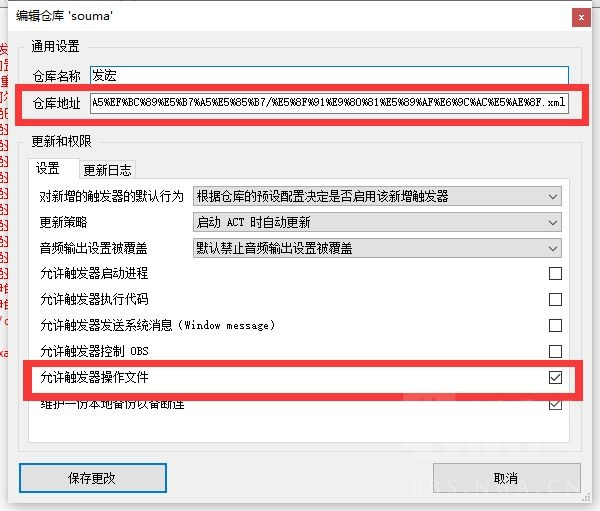
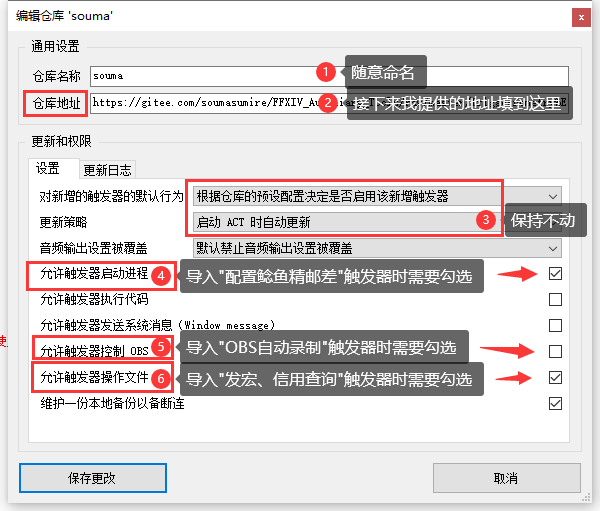
Update

diff --git a/README.md b/README.md
@@ -16,12 +16,6 @@
   1. 安装 [ACT呆萌整合](https://nga.178.com/read.php?tid=19019884) / [Triggernometry](https://github.com/paissaheavyindustries/Triggernometry)
   1. **聊天框消息没有被过滤** [视频演示](https://www.bilibili.com/video/av83704576/)
 
-## 统一为所有触发器设置鲶鱼精邮差端口
-
-1. 运行 `配置环境变量.bat`
-
-1. **重新启动ACT**
-
 ## 导入触发器
 
 ![远程触发器](screenshots/远程触发器.png)
@@ -30,9 +24,13 @@
 远程仓库地址：
 
 ```仓库地址:
-
-副本触发器
+5.0副本触发器
 https://gitee.com/soumasumire/FFXIV_Auxiliary_Tools/raw/master/Triggernometry%E8%A7%A6%E5%8F%91%E5%99%A8/%E5%89%AF%E6%9C%AC%E8%A7%A6%E5%8F%91%E5%99%A8/5.0%E8%A7%A6%E5%8F%91%E5%99%A8.xml
+
+配置【鲶鱼精邮差】监听端口（导入时需勾选“允许触发器启动进程”）
+//复制到本地以修改端口
+//已经下载到本地的可以也选择运行'设置鲶鱼精邮差端口.bat'进行设置
+https://gitee.com/soumasumire/FFXIV_Auxiliary_Tools/raw/master/Triggernometry%E8%A7%A6%E5%8F%91%E5%99%A8/%E9%85%8D%E7%BD%AE%E9%B2%B6%E9%B1%BC%E7%B2%BE%E9%82%AE%E5%B7%AE%E7%AB%AF%E5%8F%A3.xml
 
 Aho 团辅监控
 https://gitee.com/soumasumire/FFXIV_Auxiliary_Tools/raw/master/Triggernometry%E8%A7%A6%E5%8F%91%E5%99%A8/Aho%E5%9B%A2%E8%BE%85%E7%9B%91%E6%8E%A7/Aho's%20Raid%20Buffs.xml
